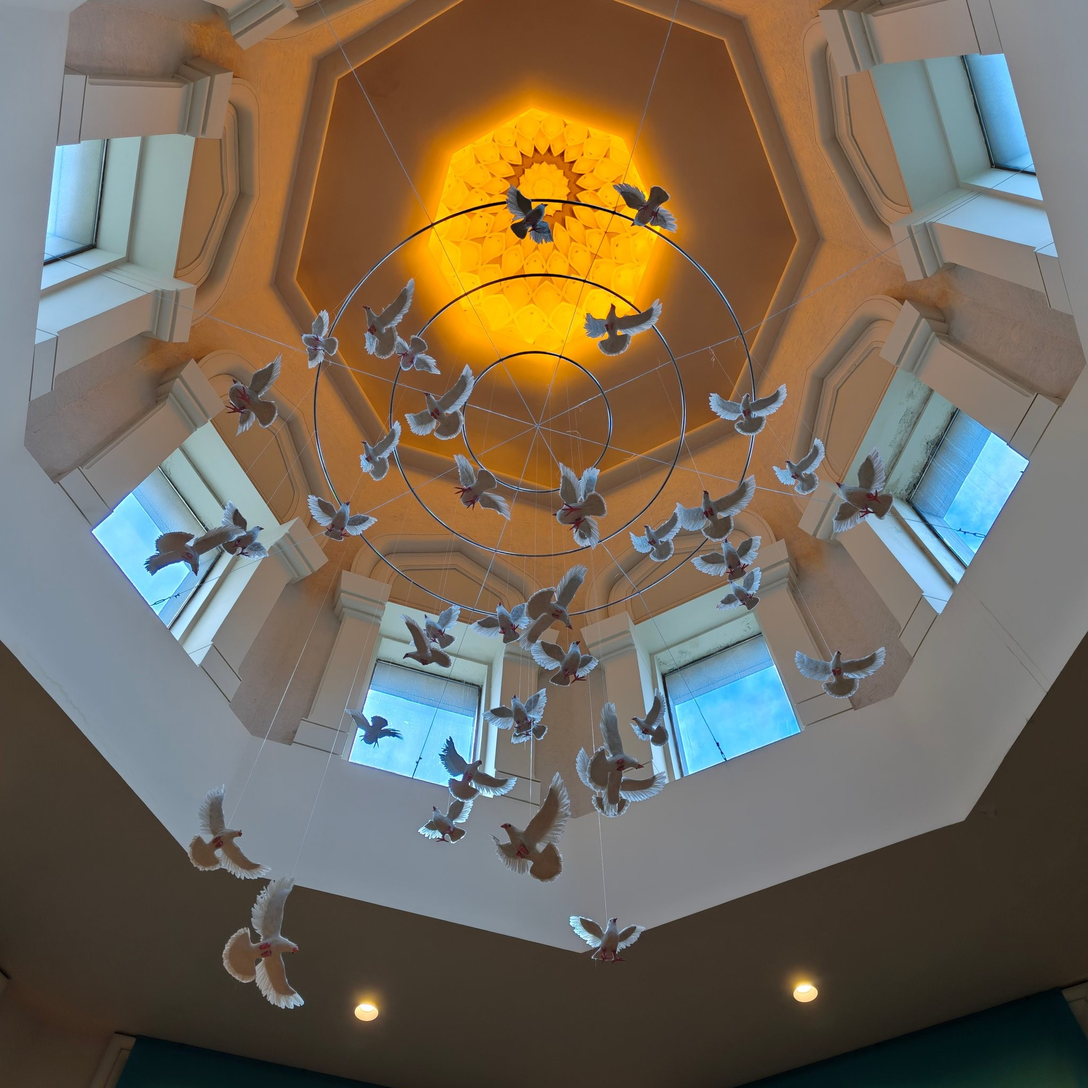
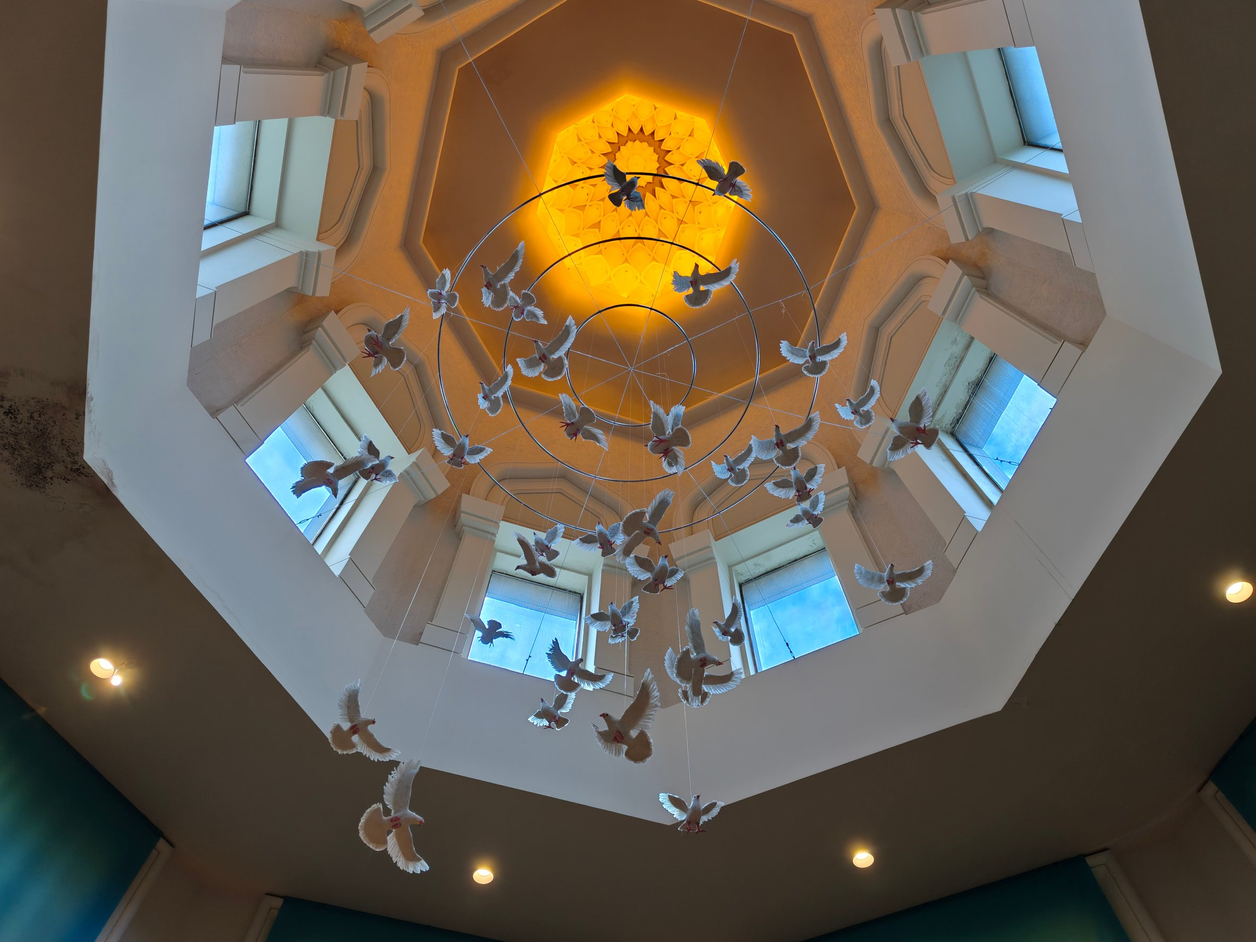
报头: 换回 4:3 真原图，桌面 2.2:1 横幅 / 移动 4:5，高度改由图片比例决定

diff --git a/layouts/index.html b/layouts/index.html
@@ -5,16 +5,22 @@
 {{ $posts := where site.RegularPages "Section" "posts" }}
 
 {{ with resources.Get "img/masthead.jpg" }}
-  {{ $large := .Resize "2000x webp q80" }}
-  {{ $small := .Resize "1000x webp q76" }}
+  {{/* 桌面：2.2:1 横幅，Top 锚点保住吊灯与三层圆环 */}}
+  {{ $wide := .Fill "2200x1000 Top webp q80" }}
+  {{ $wideS := .Fill "1100x500 Top webp q76" }}
+  {{/* 移动端：4:5 竖构图，取中心 */}}
+  {{ $tall := .Fill "900x1125 Center webp q80" }}
   <section class="masthead">
-    <img
-      src="{{ $large.RelPermalink }}"
-      srcset="{{ $small.RelPermalink }} 1000w, {{ $large.RelPermalink }} 2000w"
-      sizes="100vw"
-      alt=""
-      width="{{ $large.Width }}" height="{{ $large.Height }}"
-      fetchpriority="high" decoding="async">
+    <picture>
+      <source media="(max-width: 860px)" srcset="{{ $tall.RelPermalink }}" type="image/webp">
+      <img
+        src="{{ $wide.RelPermalink }}"
+        srcset="{{ $wideS.RelPermalink }} 1100w, {{ $wide.RelPermalink }} 2200w"
+        sizes="100vw"
+        alt=""
+        width="{{ $wide.Width }}" height="{{ $wide.Height }}"
+        fetchpriority="high" decoding="async">
+    </picture>
     <div class="masthead-text">
       <div class="wrap">
         <span class="kicker">RECORDS</span>

diff --git a/assets/css/main.css b/assets/css/main.css
@@ -77,15 +77,16 @@ a { color: inherit; }
 .masthead {
   position: relative;
   width: 100%;
-  height: clamp(320px, 48vh, 520px);
   overflow: hidden;
   background: #1a1614;
 }
+/* 高度由图本身的比例决定（桌面 2.2:1 / 移动 4:5），
+   这样构图在 CSS 层不再被二次随机裁切；max-height 只做矮屏兜底 */
 .masthead img {
-  width: 100%; height: 100%;
+  width: 100%; height: auto; display: block;
+  max-height: 76vh;
   object-fit: cover;
-  object-position: 50% 42%;
-  display: block;
+  object-position: 50% 50%;
 }
 .masthead::after {
   content: "";
@@ -401,7 +402,7 @@ a { color: inherit; }
 /* ---------- 响应式 ---------- */
 @media (max-width: 860px) {
   .lede { max-width: none; }
-  .masthead { height: clamp(280px, 42vh, 420px); }
+  .masthead img { max-height: 66vh; }
   .masthead-text h1 { font-size: clamp(1.8rem, 7.2vw, 2.4rem); }
   .masthead-text .lede { max-width: none; }
 }
